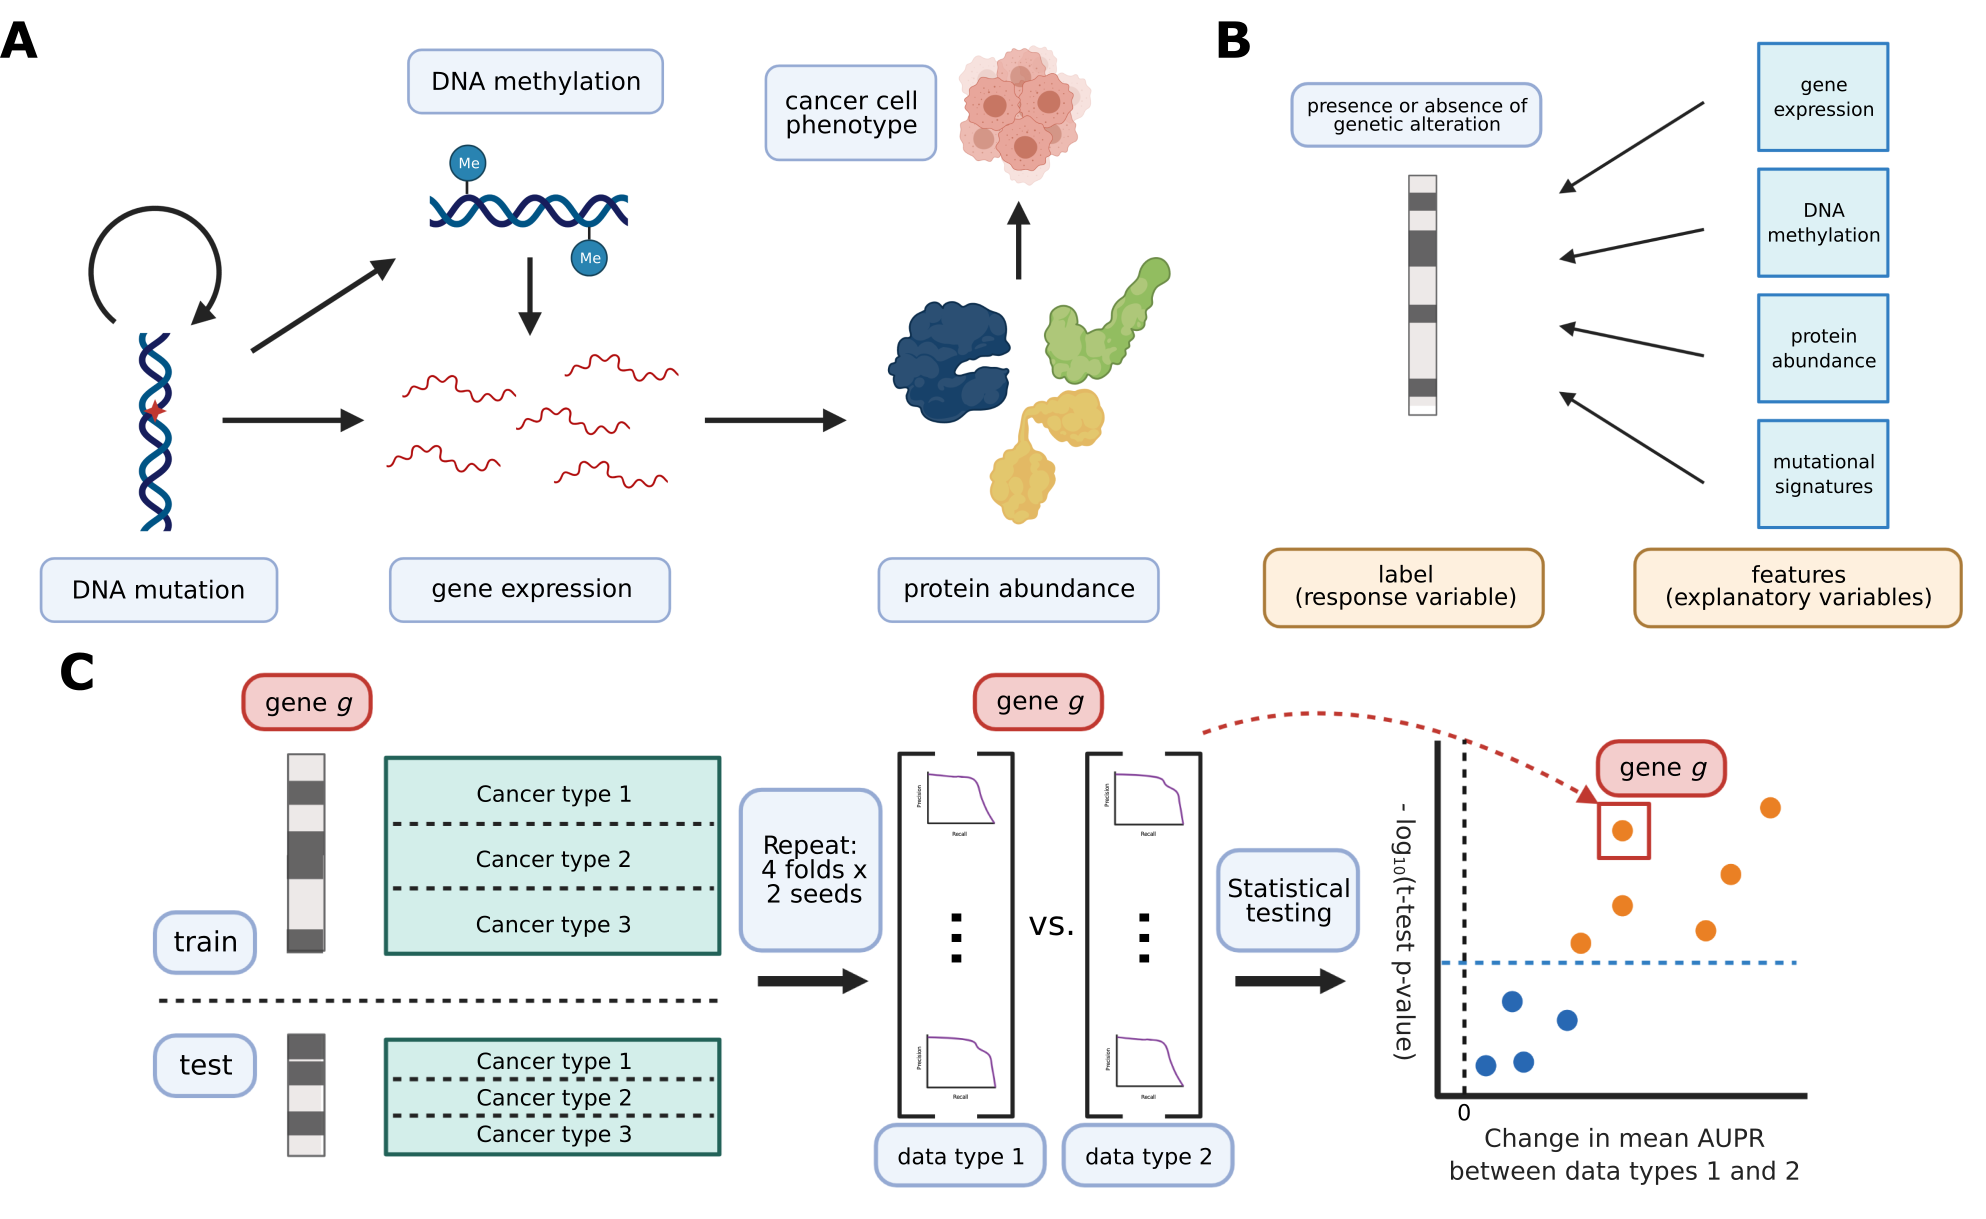
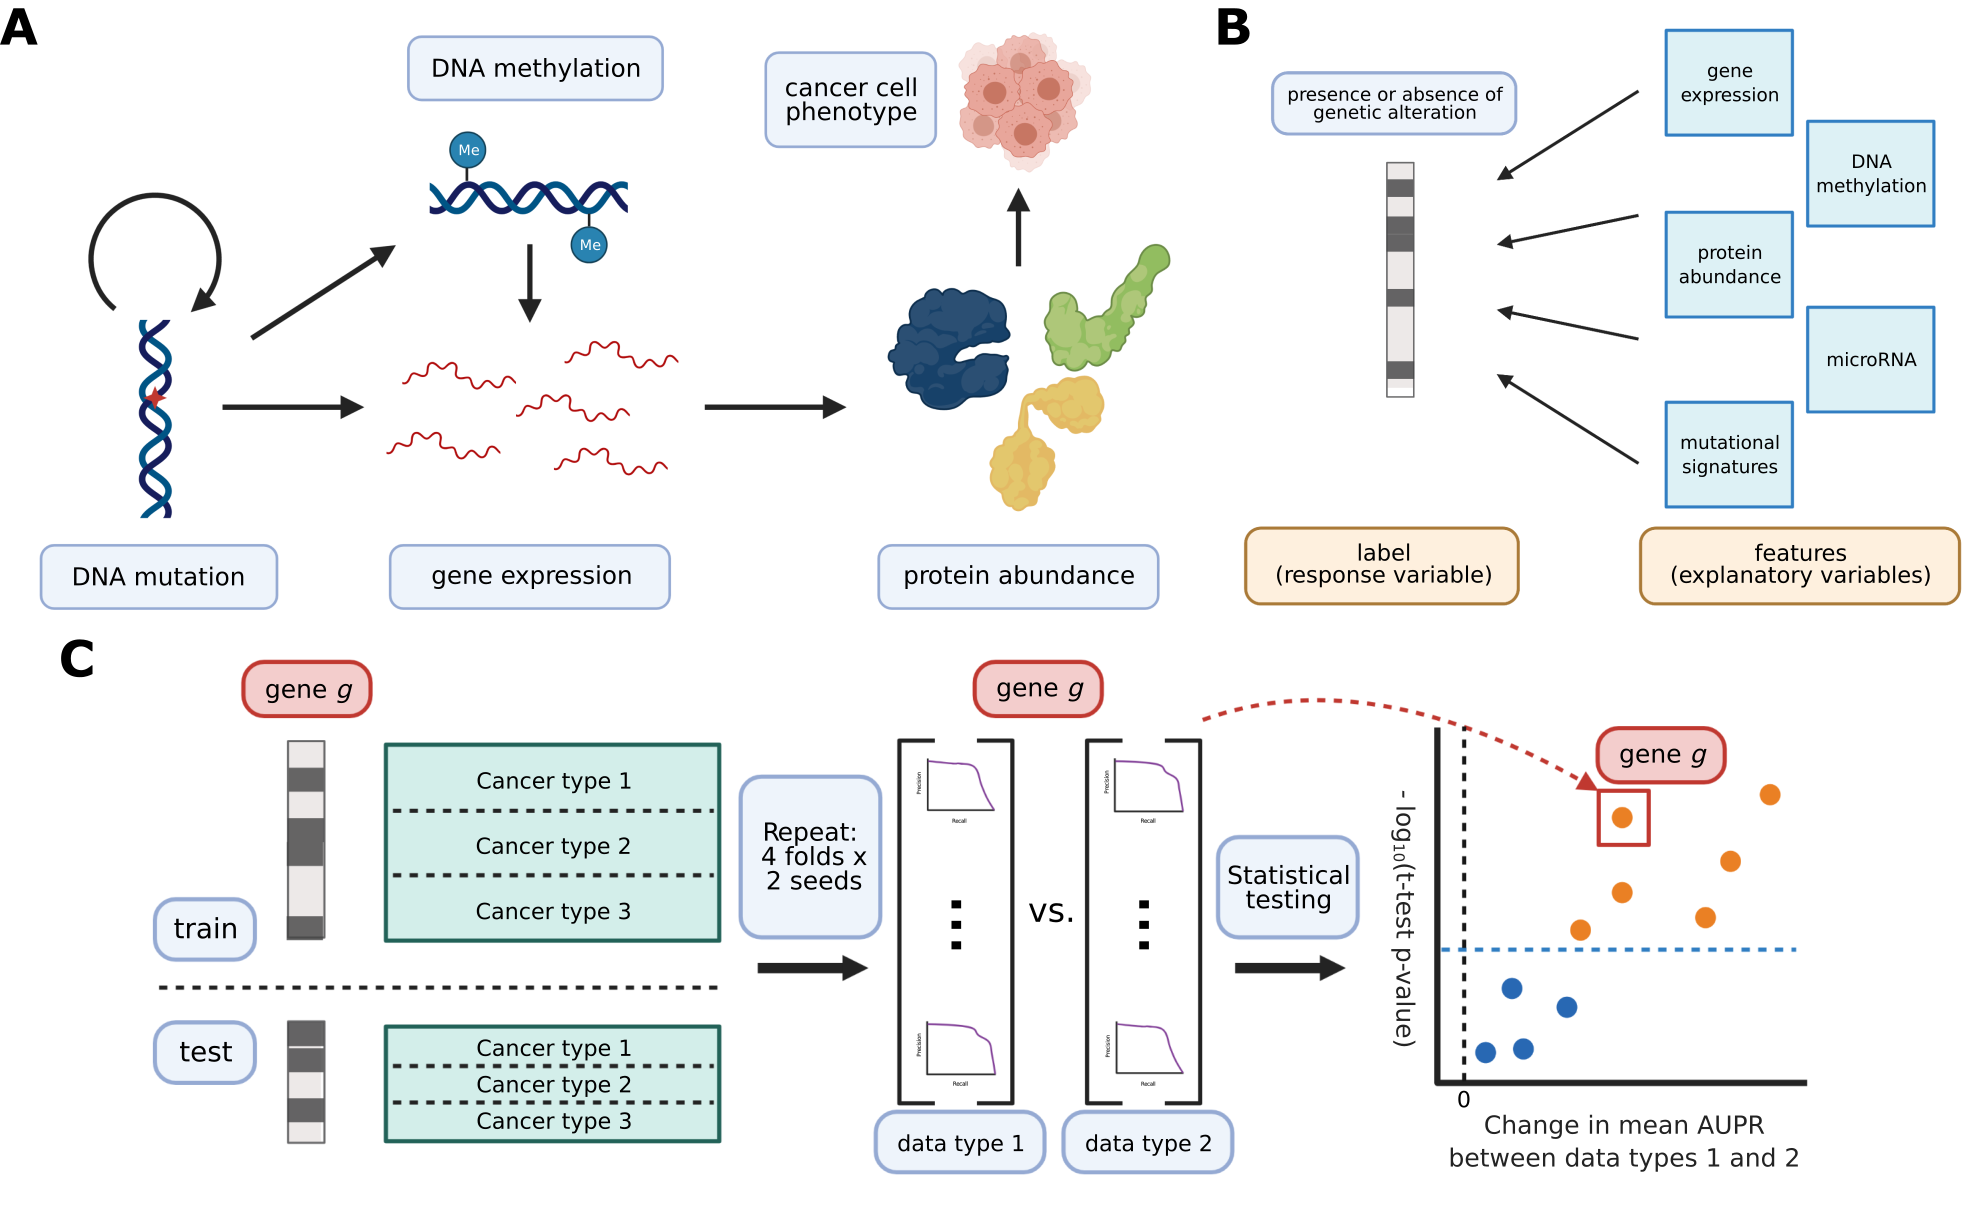
update summary figure and text to include microRNA

diff --git a/content/04.results.md b/content/04.results.md
@@ -2,8 +2,8 @@
 
 ### Using diverse data modalities to predict cancer alterations
 
-We collected four different readouts from cancer samples in the TCGA Pan-Cancer Atlas, capturing four steps of cellular function that are perturbed by genetic alterations in cancer (Figure {@fig:overview}A).
-These included gene expression (RNA-seq data), DNA methylation (27K and 450K Illumina BeadChip arrays), protein abundance (RPPA data), and patterns of somatic mutation (mutational signatures).
+We collected five different readouts from cancer samples in the TCGA Pan-Cancer Atlas, capturing five steps of cellular function that are perturbed by genetic alterations in cancer (Figure {@fig:overview}A).
+These included gene expression (RNA-seq data), DNA methylation (27K and 450K Illumina BeadChip arrays), protein abundance (RPPA data), microRNA expression data, and patterns of somatic mutation (mutational signatures).
 To link these diverse data modalities to changes in mutation status, we used elastic net logistic regression to predict the presence or absence of mutations in cancer genes, using these readouts as predictive features (Figure {@fig:overview}B).
 We evaluated the resulting mutation status classifiers in a pan-cancer setting, preserving the proportions of each of the 33 cancer types in TCGA for 8 train/test splits (4 folds x 2 replicates) in each of 107 cancer genes (Figure {@fig:overview}C).
 
@@ -48,6 +48,9 @@ These results suggest that selecting target genes for mutation prediction based 
 ](images/figure_2.png){#fig:expression_gene_sets width="90%"}
 
 ### Comparison of data modalities reveals widespread redundancy
+
+Next, we expanded our comparison to all five functional readouts available in the TCGA Pan-Cancer Atlas.
+
 
 ![
 **A.** Overlap of TCGA samples between data types used in mutation prediction comparisons. Only overlaps with more than 100 samples are shown.
